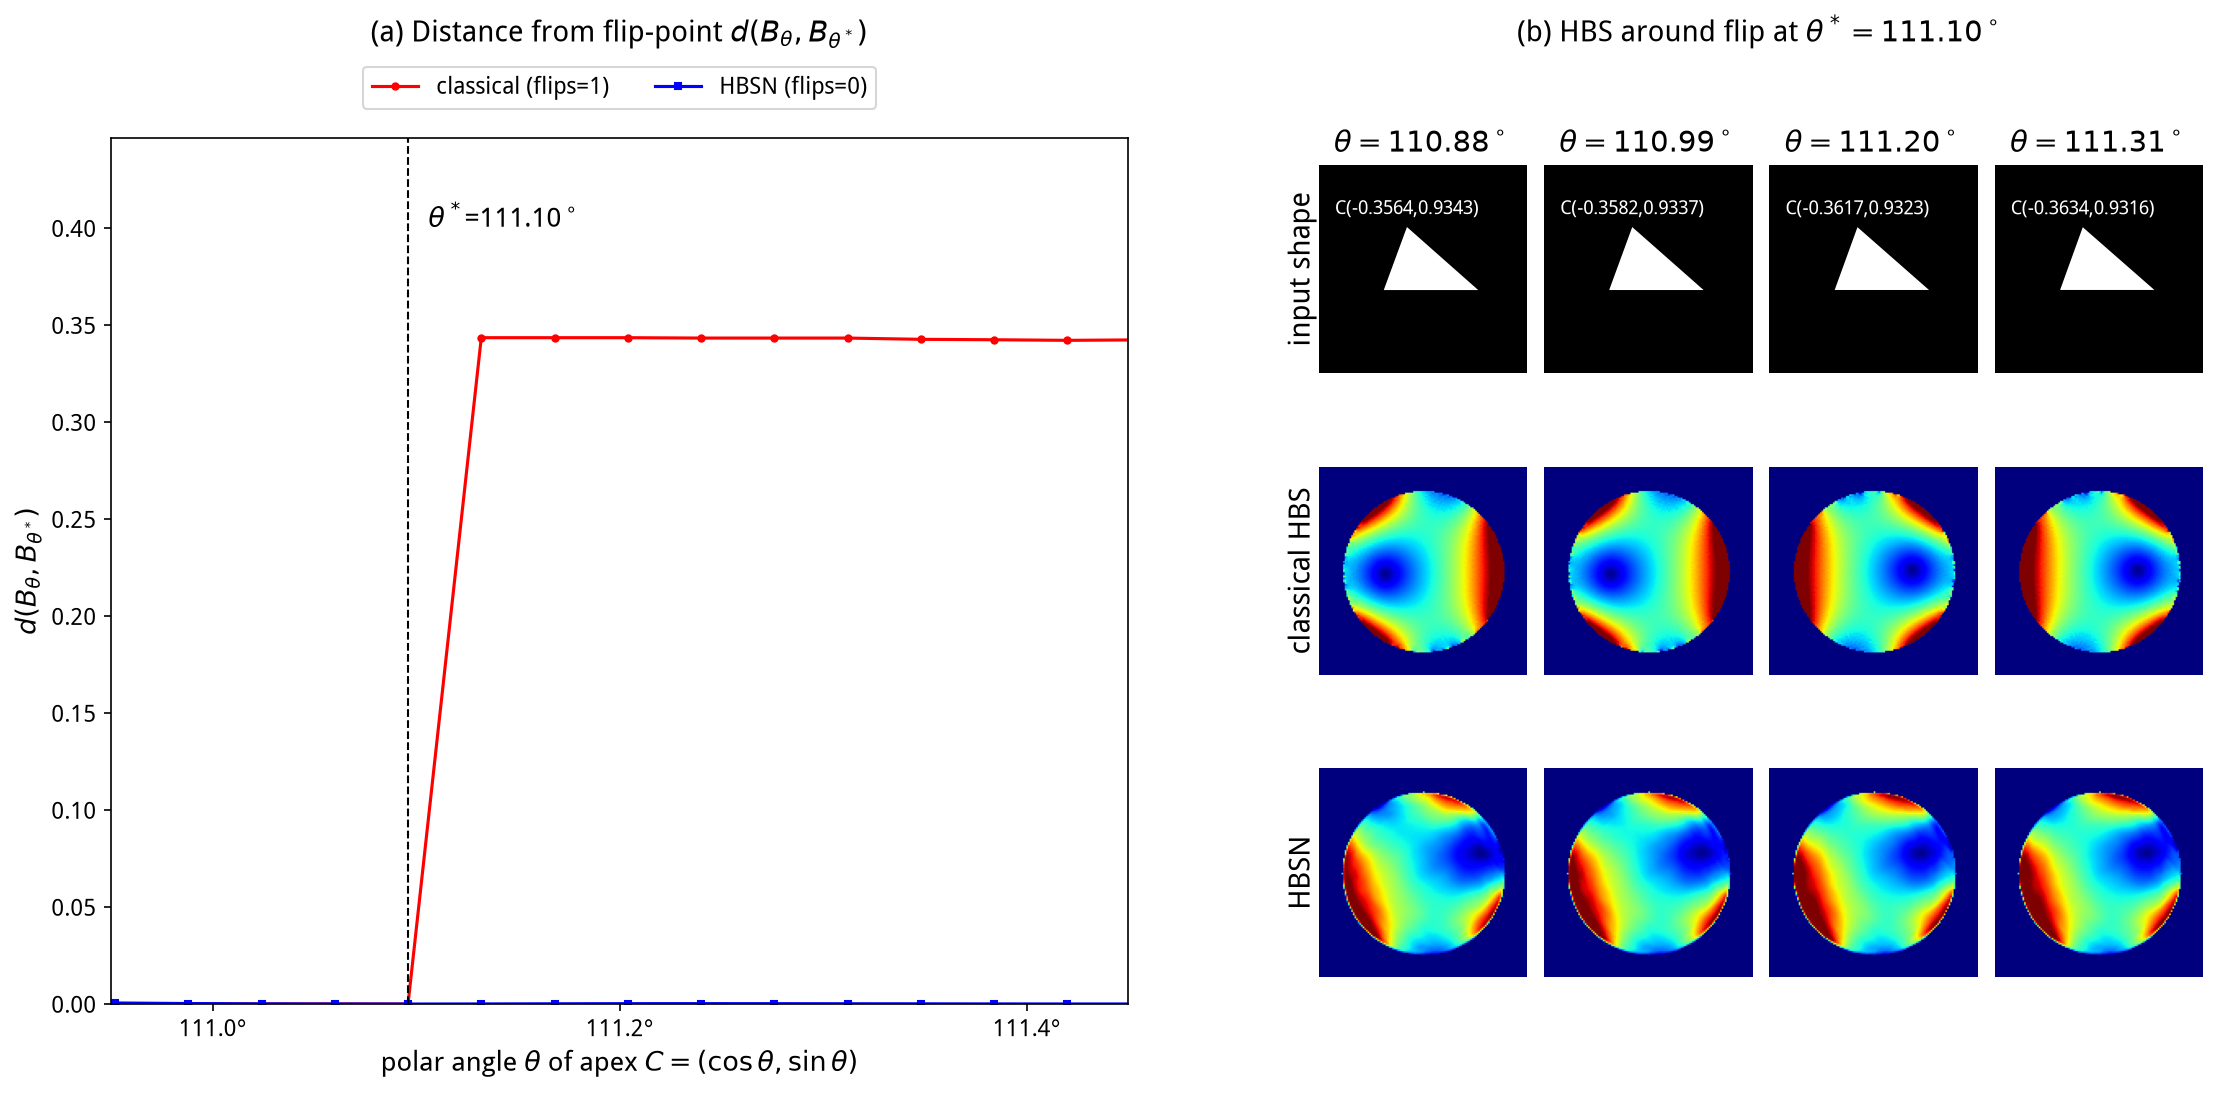
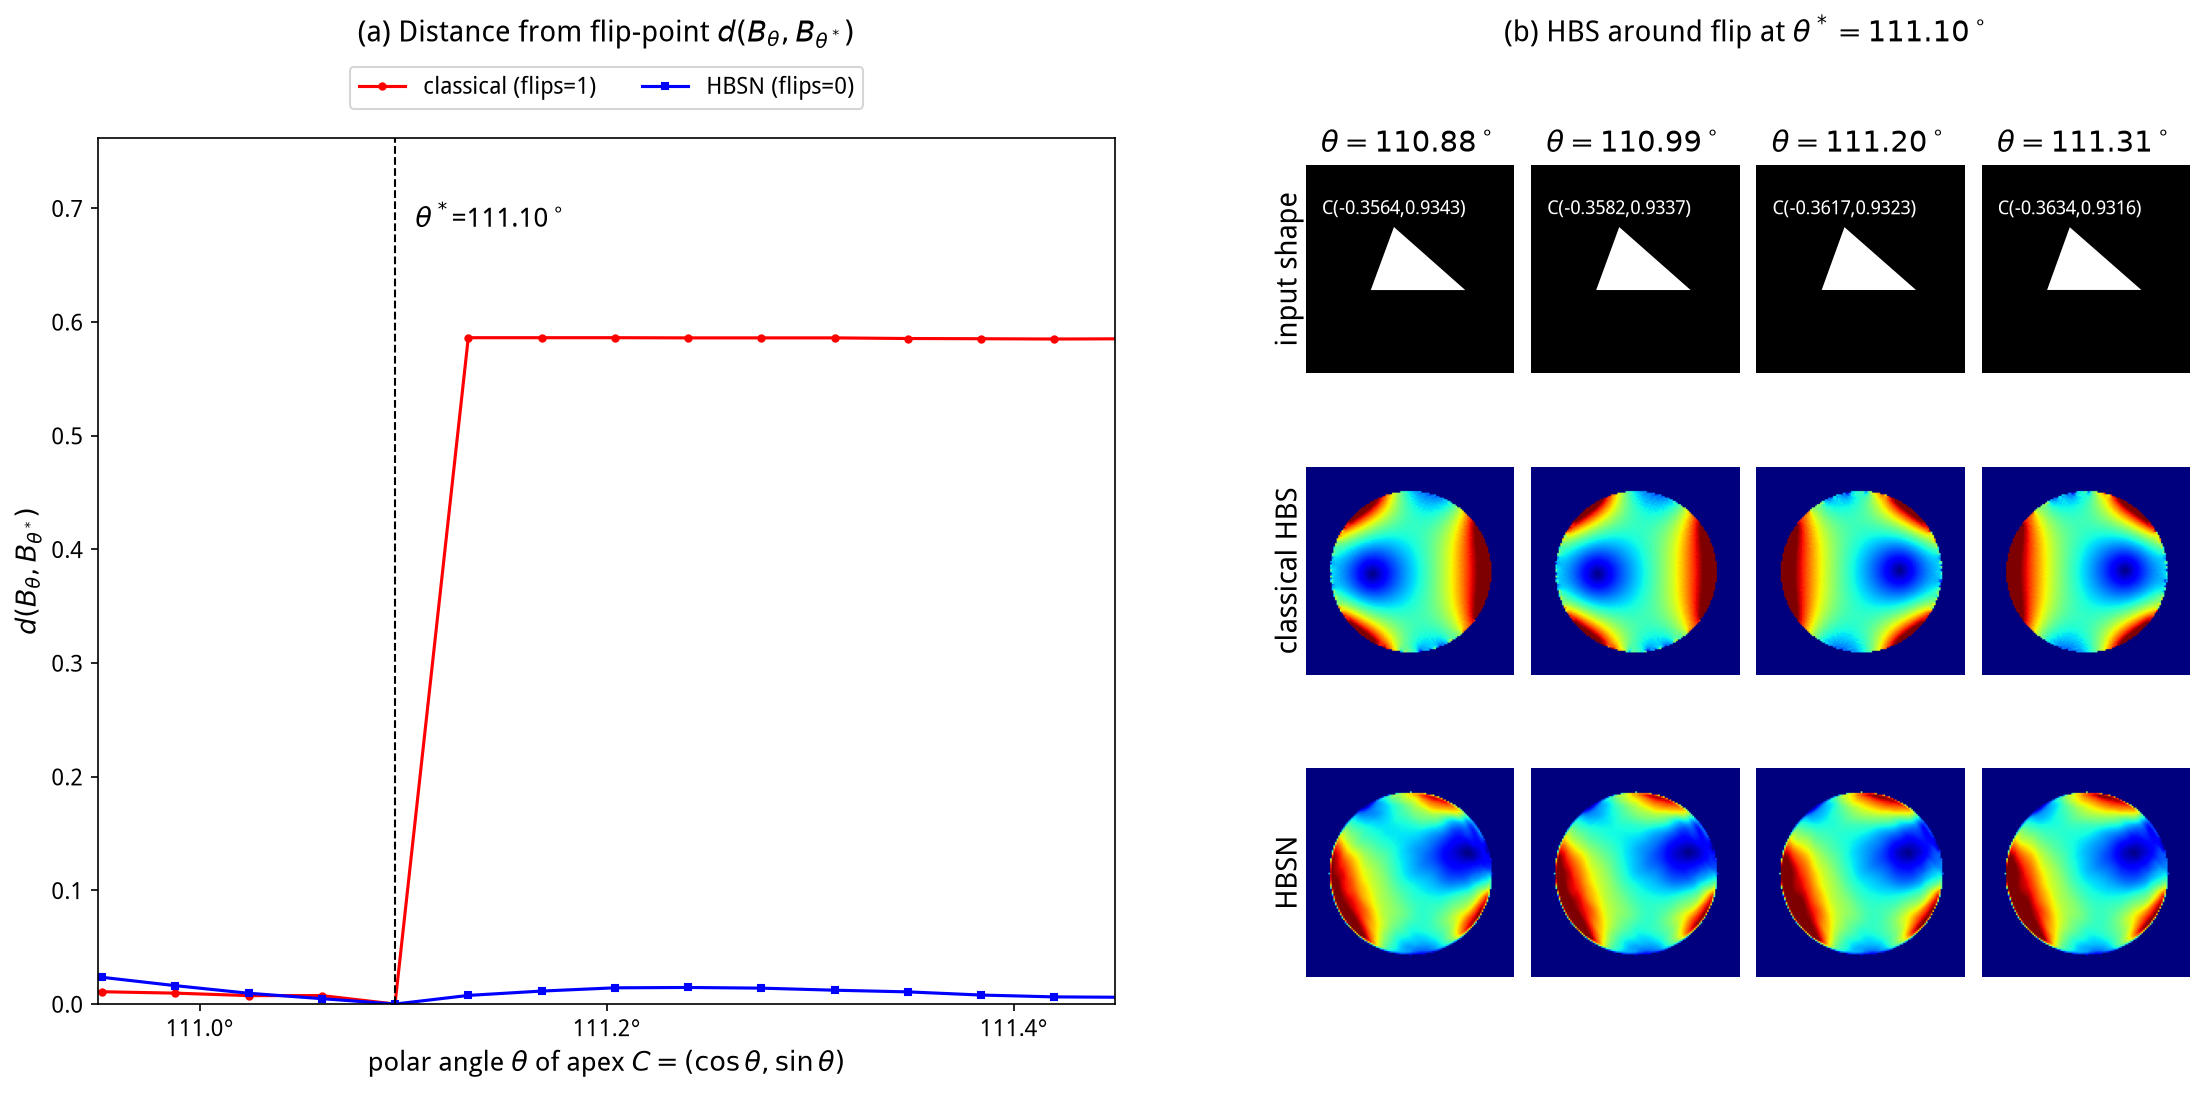
fix: 距离口径改为 RMS（HBS 论文式 (7.1)）
ops.d2 与 e4 orbit_variance 由平均 L² 改为 RMS：
d = sqrt((1/N)Σ|B−B'|²)，先除圆盘像素数 N 再开根。
重跑 E1（经典阶跃 0.586、HBSN d_max 0.039）与 E4（轨道内
方差中位 0.017–0.025）。is_flip 用相对比较，口径不影响判定。

diff --git a/scripts/exp/e4_invariance.py b/scripts/exp/e4_invariance.py
@@ -71,16 +71,19 @@ def render_transformed(bound, offset_px=(0, 0), scale=1.0, rot_deg=0.0):
 
 
 def orbit_variance(fields, z, mask):
-    """轨道内 L² 方差：mean_k ‖B_k − B̄‖²（论文口径，除以圆盘像素数 N）。
+    """轨道内 RMS 距离：sqrt(mean_k (1/N)Σ|B_k − B̄|²)。
 
-    fields 含 None 则跳过（经典失败）。与主文 d(B,B')=(1/N)Σ|B−B'|² 一致。
+    与 HBS 论文式 (7.1) 的 L² metric 一致（先除 N 再开根）。
+    fields 含 None 则跳过（经典失败）。
     """
     valid = [f for f in fields if f is not None]
     if len(valid) < 2:
         return np.nan
     mean = np.mean(valid, axis=0)
     n = mask.sum()
-    return np.mean([np.sum(np.abs(f - mean)[mask] ** 2) / n for f in valid])
+    return np.sqrt(
+        np.mean([np.sum(np.abs(f - mean)[mask] ** 2) / n for f in valid])
+    )
 
 
 def draw_orbit_figure(bound, out_path, z, mask, net):

diff --git a/scripts/exp/hbsn_exp/ops.py b/scripts/exp/hbsn_exp/ops.py
@@ -10,16 +10,16 @@ from .grid import CX, CY, R, get_ghbs_grid
 
 
 def d2(a, b, z=None, mask=None):
-    r"""圆盘掩膜上平均 L² 距离（论文口径 d(B,B')=(1/N)Σ|B−B'|²）。
+    r"""圆盘掩膜上 RMS 距离（HBS 论文式 (7.1)：d=sqrt((1/N)Σ|B−B'|²)）。
 
-    除以圆盘像素数 N（mask 内点数）——与主文 eq. (d hbs) 的 distance 定义一致。
-    is_flip 用相对比较，口径不影响判定。
+    先除以圆盘像素数 N（mask 内点数）再开根——与 HBS 论文 hbs.pdf eq. (7.1) 的
+    L² metric 一致。is_flip 用相对比较，口径不影响判定。
     """
     if z is None:
         z, mask = get_ghbs_grid()
     diff = a - b
     n = mask.sum()
-    return np.sum(np.abs(diff[mask]) ** 2) / n
+    return np.sqrt(np.sum(np.abs(diff[mask]) ** 2) / n)
 
 
 def i2(field, z=None, mask=None):

diff --git a/tables/tab_invariance.tex b/tables/tab_invariance.tex
@@ -1,7 +1,7 @@
 %% E4 变换不变性：轨道内 L2 方差（经典 vs HBSN，median±IQR over 20 shapes）
 \begin{tabular}{|c|c|c|}\hline
 transformation & classical & HBSN \\ \hline
-translation & 0.0004$\pm$0.0002 & 0.0003$\pm$0.0002 \\ \hline
-scale & 0.0004$\pm$0.0002 & 0.0004$\pm$0.0003 \\ \hline
-rotation & 0.0006$\pm$0.0004 & 0.0004$\pm$0.0002 \\ \hline
+translation & 0.0205$\pm$0.0059 & 0.0169$\pm$0.0061 \\ \hline
+scale & 0.0201$\pm$0.0055 & 0.0192$\pm$0.0102 \\ \hline
+rotation & 0.0247$\pm$0.0072 & 0.0207$\pm$0.0057 \\ \hline
 \end{tabular}
